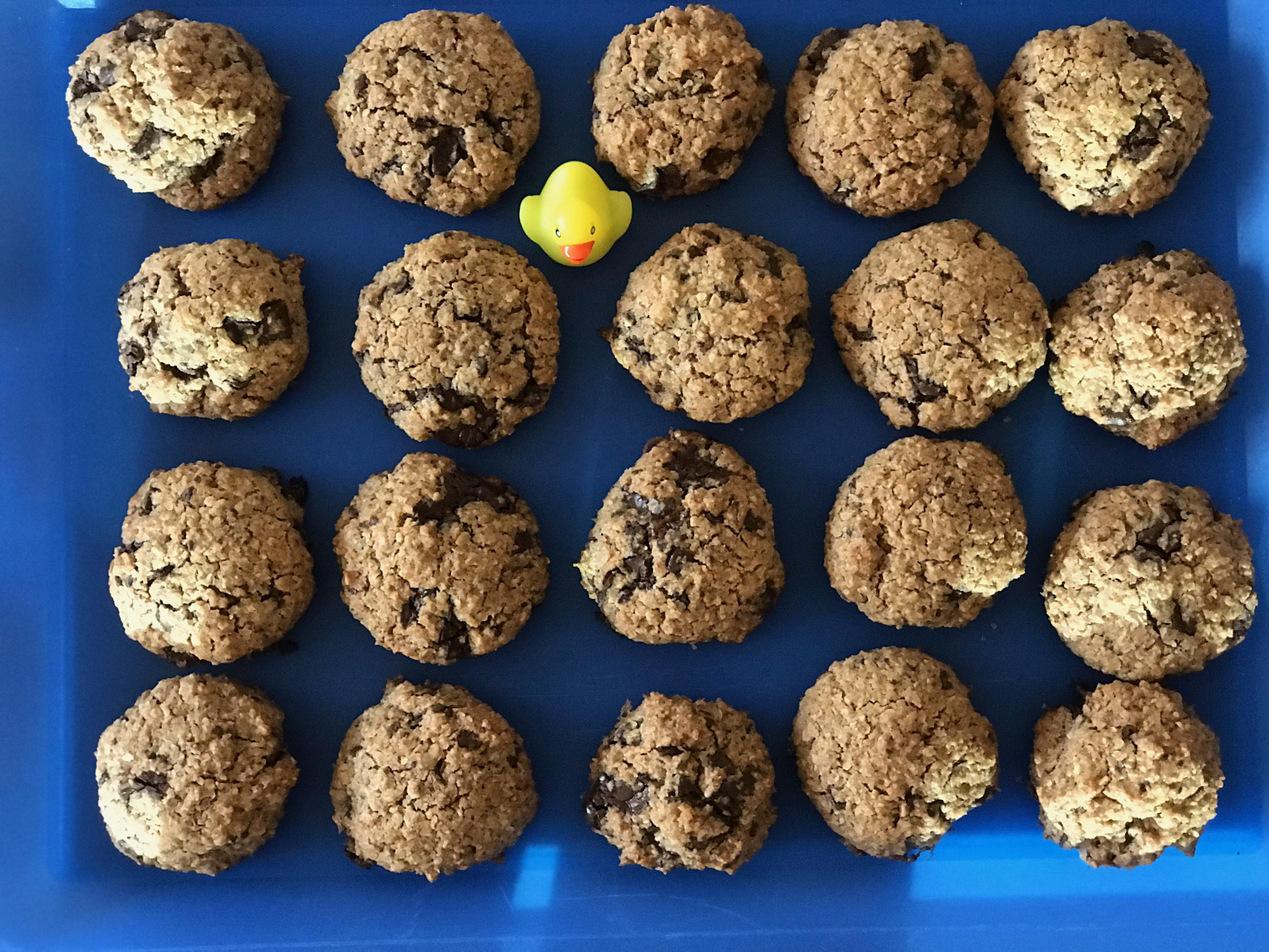
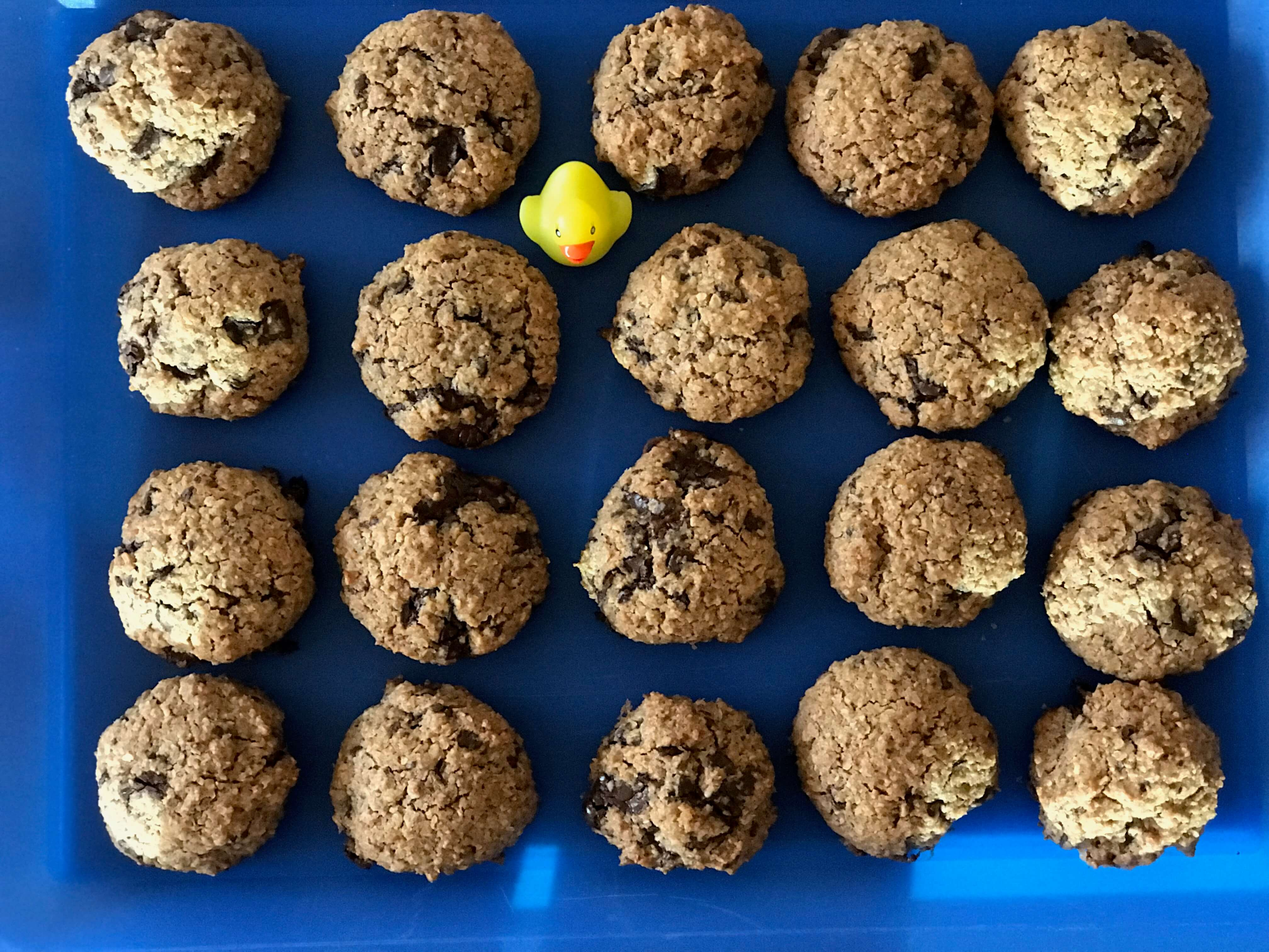
Updates

diff --git a/_recipes/banana-chocolate-chip-cupcakes.md b/_recipes/banana-chocolate-chip-cupcakes.md
@@ -1,0 +1,30 @@
+---
+title: "Banana and Chocolate Chip Cupcakes"
+image: 
+  path: /images/banana-chocolate-chip-cupcakes.png
+  thumbnail: /images/banana-chocolate-chip-cupcakes.png
+---
+
+This is a great way to use up leftover bananas. These cupcakes are American style and use creme fraiche which gives them an extra moist and squishy texture. 
+
+## Ingredients
+
+* 110g butter or margarine
+* 150g white sugar
+* 1 egg
+* 1 egg yold
+* 2 tsp vanilla essence
+* 175g flour 
+* 2 teaspoon baking powder
+* pinch of salt
+* 2 ripe bananas
+* 100g dark chocolate chips
+
+
+## Directions
+
+1. Pre-heat oven to 180C 
+2. Mix all the ingredients except the chocolate chips together to form a dough.
+3. Add in the chocolate chips and mix.
+4. Fill a cupcake tray with cupcake forms and fill each form two thirds full with the cupcake batter. 
+5. Bake for 20 minutes or until the cupcakes are risen and lightly golden.

diff --git a/_recipes/smartie-cookies.md b/_recipes/smartie-cookies.md
@@ -1,11 +1,11 @@
 ---
 title: "Smartie Cookies"
 image: 
-  path: /images/Smartie_biscuits.jpg
-  thumbnail: /images/Smartie_biscuits.jpg
+  path: /images/smartie-cookies.png
+  thumbnail: /images/smartie-cookies.png
 ---
 
-Kids love these cookies with smarties. 
+ The basic recipe here is a cookie recipe with white and brown sugar and eggs giving it a chewy texture. The addition of Smarties makes it a kids favourite. 
 
 ## Ingredients
 

diff --git a/_recipes/chocolate-chip-oat-cookies.md b/_recipes/chocolate-chip-oat-cookies.md
@@ -1,8 +1,8 @@
 ---
 title: "Chocolate Chip, Coconut and Oat Cookies"
 image: 
-  path: /images/Chocolate_oat_cookies.jpg
-  thumbnail: /images/Chocolate_oat_cookies.jpg
+  path: /images/chocolate-oat-cookies.png
+  thumbnail: /images/chocolate-oat-cookies.png
  
 ---
 

diff --git a/_recipes/peanut-butter-cookies.md b/_recipes/peanut-butter-cookies.md
@@ -1,8 +1,8 @@
 ---
 title: "Peanut Butter Cookies"
 image: 
-  path: /images/Peanut_Butter_Cookies.jpg
-  thumbnail: /images/Peanut_Butter_Cookies.jpg
+  path: /images/peanut-butter-cookies.png
+  thumbnail: /images/peanut-butter-cookies.png
   
 ---
 
